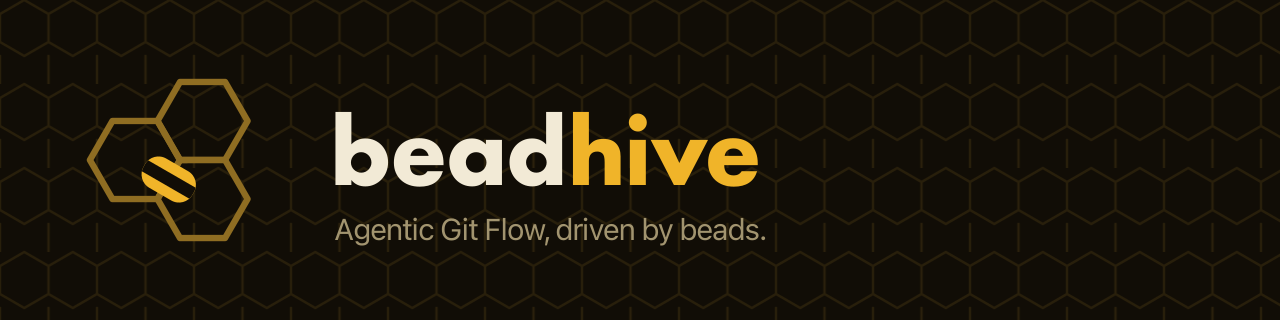
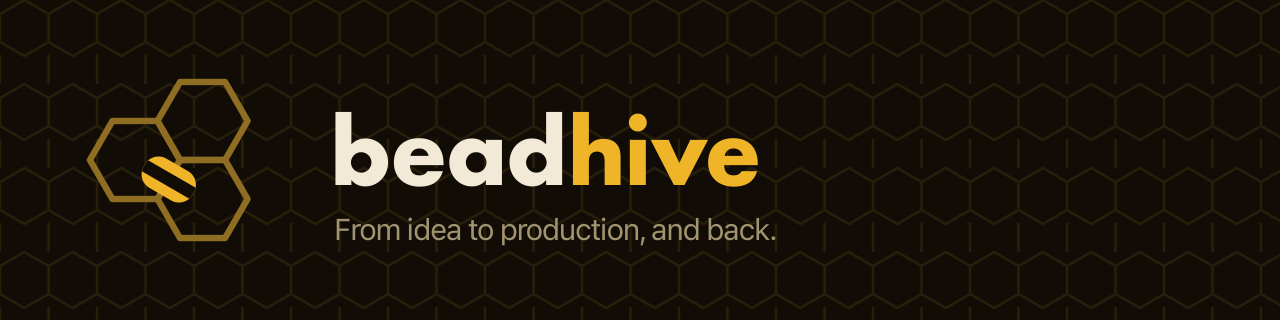
docs(readme): lead with the managed path and rung 1 (bh-r59o1.2)
README.md:36 still sold `uv tool install 'beadhive[otel]'` as "PyPI
(recommended)" with nix absent entirely — the exact route INSTALL.md demoted
in v0.8.0. A new reader was steered onto the demoted path and then hand-installed
`bd` from HEAD, which is the job the nix profile exists to do.

Install now mirrors INSTALL.md's methods[] order: agent route, managed path,
PyPI as a labelled fallback. `--force` and the `bh --version` check line come
with the measurement that makes them load-bearing (macOS, 0.7.1 installed: the
unforced install printed "Installed 2 executables" and exited 0 while
`bh --version` still said 0.7.1).

Adds the rung-1 tail — config init / mcp install / hq init / hive onboard /
work ready — in docs/ADOPTION.md's own vocabulary and commands, with one line
on the cost (HQ is local; no backup, no second machine yet).

Absorbs bh-immq.1 entirely (operator decision, one README edit reviewed once):
banner PNG refreshed from infra e155c5b, which re-rendered it as "From idea to
production, and back."; alt text no longer repeats the retired "Agentic Git
Flow, driven by beads." tagline; a path out to beadhive.ai; and harness support
no longer reads as Claude-Code-only — OpenCode shipped in v0.4.0
(`bh hive onboard --opencode`) and docs/AGF.md's per-harness matrix, codex row
included, is linked.

The `## Install` heading text is unchanged: beadhive.ai deep-links it by
url#section and bh-r59o1.6 gates it. New content is additive subsections.
[…]

Changed region(s): [[0.25, 0.6875, 0.625, 0.7812]]

diff --git a/README.md b/README.md
@@ -1,6 +1,6 @@
 # Beadhive (`bh`)
 
-![beadhive — Agentic Git Flow, driven by beads.](docs/assets/brand/banner-readme.png)
+![beadhive — from idea to production, and back.](docs/assets/brand/banner-readme.png)
 
 [![PyPI version](https://img.shields.io/pypi/v/beadhive)](https://pypi.org/project/beadhive/)
 [![Python versions](https://img.shields.io/pypi/pyversions/beadhive)](https://pypi.org/project/beadhive/)
@@ -23,7 +23,8 @@ layer. See [docs/AGF.md](docs/AGF.md) for the process and
 [docs/design/limn-naming-strategy-adr.md](docs/design/limn-naming-strategy-adr.md) for the
 naming decision record.
 
-This repo is the CLI's source (Python package `beadhive` on PyPI, command `bh`).
+This repo is the CLI's source (Python package `beadhive` on PyPI, command `bh`). For what
+Beadhive is conceptually, rather than how to drive it, see [beadhive.ai](https://beadhive.ai).
 
 ## Install
 
@@ -31,27 +32,71 @@ This repo is the CLI's source (Python package `beadhive` on PyPI, command `bh`).
 carries a structured `install:` frontmatter block (the agent reads it, discloses the plan,
 and asks before each command) plus a prose fallback any agent or human can follow.
 
-**Manual** (pick one):
+Doing it by hand? There are two routes, in this order.
+
+### Managed path (recommended)
+
+`bh` doesn't work alone — it drives `bd`, `dolt`, `gh` and `git-workspace`. This is the only
+route that installs and **version-pins all of them with it**, from `flake.lock`:
 
 ```sh
-uv tool install 'beadhive[otel]'     # PyPI (recommended — prebuilt wheels, seconds)
-pipx install 'beadhive[otel]'        # PyPI alternative
-brew install beadhive/tap/beadhive   # Homebrew (slower — builds native deps from source)
+nix profile install github:beadhive/beadhive/v0.8.0#default   # bd, dolt, gh, git-workspace, git, uv, just
+uv tool install --force 'beadhive[otel]'                      # bh itself (uv came from the line above)
+bh --version                                                  # must print the released version
 ```
 
-Then scaffold the config home:
+`--force` and that third line are both load-bearing, not decoration: unforced, `uv tool
+install` no-ops on a machine that already has `bh` and **still exits 0**. Measured on macOS
+with 0.7.1 installed, it reported "Installed 2 executables: bh, bh-mcp" and `bh --version`
+still said 0.7.1. This step is done when the version is right, not when the install exits 0.
+
+The one precondition is nix, which needs root — a system daemon, and an APFS volume on macOS.
+[`INSTALL.md`](INSTALL.md#managed-path-recommended) carries the one-time installer, the ~130s
+/ 2–3 GB cold cost, and the platform limits (macOS: Apple Silicon only).
+
+### PyPI route (fallback, not recommended)
+
+For machines where you can't install nix, or won't. It works, and it's genuinely one command
+— but it installs **`bh` alone**, leaving the other four tools to whatever the machine happens
+to have, including a `bd` you then install from HEAD by hand:
 
 ```sh
-bh config init      # writes config.yaml + templates into ~/.beadhive/
+uv tool install --force 'beadhive[otel]'   # or: pipx install --force 'beadhive[otel]'
+brew install beadhive/tap/beadhive         # Homebrew — slower, builds native deps from source
+bh --version                               # same check, and for the same reason
+bh setup check                             # reports which of the four tools you're missing
 ```
 
-**Optional (Claude Code):** the `bh` claude-plugin vends the AGF seat agent defs and role
-skills; `bh mcp install` wires the MCP server at user scope:
+See [`INSTALL.md`](INSTALL.md#pypi-route-not-recommended) for what that leaves you to keep
+matched by hand, and for the Docker route.
+
+### First run — rung 1
+
+One laptop, local-only. From a fresh install to a ready list:
+
+```sh
+bh config init                              # scaffold ~/.beadhive
+bh mcp install                              # Claude Code: claude mcp add bh --scope user
+bh hq init                                  # local-only HQ; no remote wired, deliberately
+bh hive onboard <provider>/<org>/<repo>     # zero-footprint by default
+bh work ready
+```
+
+**What that costs:** HQ is local — no backup, and no second machine yet. That's the posture,
+not an omission; wiring a remote is rung 2. See [`docs/ADOPTION.md`](docs/ADOPTION.md) for the
+four rungs, what each buys, and what staying on this one costs.
+
+### Agent harnesses
+
+`bh` furnishes AGF seats for **Claude Code** (`--claude`) and **OpenCode** (`--opencode`) —
+pass either to `bh hive onboard <provider>/<org>/<repo>`. `docs/AGF.md` carries the
+[per-harness support matrix](docs/AGF.md#per-harness-support-matrix), including what does and
+doesn't apply for **codex**. On Claude Code, the `bh` claude-plugin vends the seat agent defs
+and role skills:
 
 ```sh
 claude plugin marketplace add beadhive/claude-plugin
 claude plugin install bh@beadhive
-bh mcp install
 ```
 
 ## Docs
